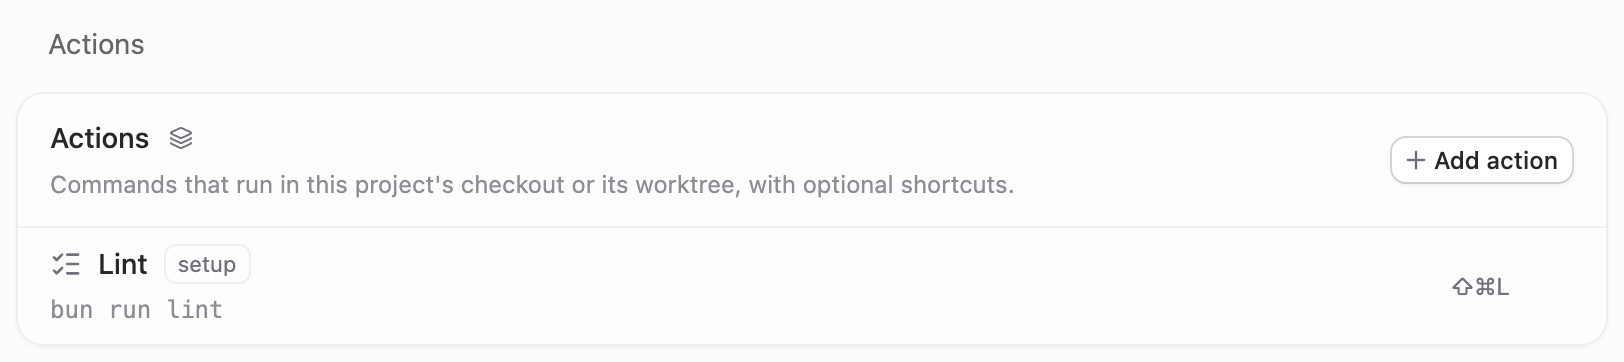
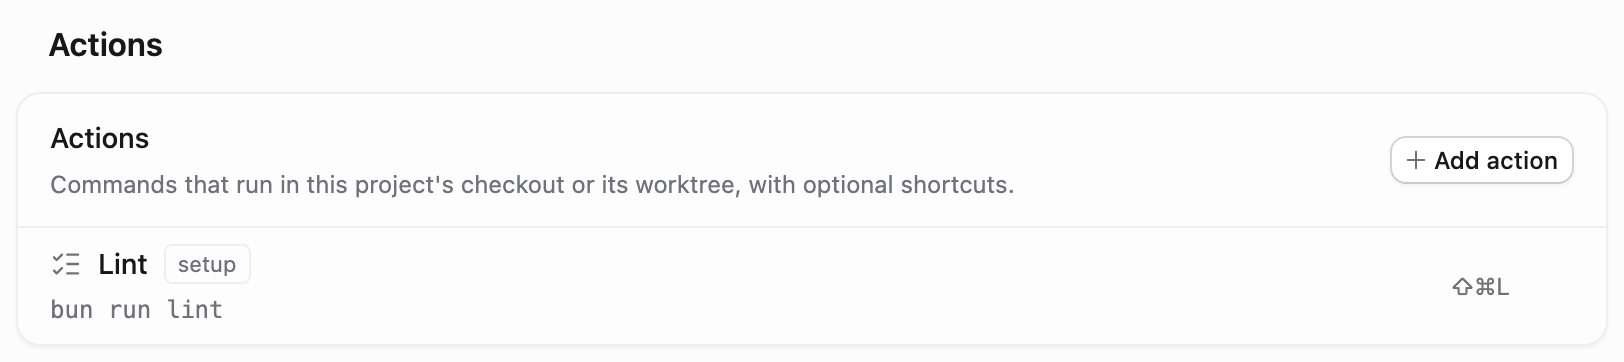
fix(settings): show neutral source control readiness (#22778)
Match Nightly 3824 SourceControlSettings.tsx:75-109: providers use a grey dot unless ready and authenticated, and Not authenticated uses the secondary badge. Keep the previous Redesign presentation. Add the light and dark readiness case and refresh the settings-page component markup from settingsLayout.tsx:232-236,486-489. The two Repositories cases retain their 4.5% ceiling and await the shared text and heading port.

diff --git a/Packages/CandyKit/Sources/Features/Settings/SourceControlSettingsView.swift b/Packages/CandyKit/Sources/Features/Settings/SourceControlSettingsView.swift
@@ -44,8 +44,15 @@ public struct SourceControlDiscoveryItem: Equatable, Sendable {
     var notReady: Bool { !isProvider && !implemented }
     var authStatus: String? { auth?["status"]?.stringValue }
 
-    /// `itemStatusDot`.
+    /// 3824 SourceControlSettings.tsx:98-109 (#22778).
     var dot: NSColor {
+        if notReady { return Themed.color(\.mutedForeground, 0.35) }
+        if isProvider { return status == "available" && authStatus == "authenticated" ? Themed.color(\.success) : Themed.color(\.mutedForeground, 0.35) }
+        return status == "available" ? Themed.color(\.success) : Themed.color(\.warning)
+    }
+
+    /// Redesign keeps the presentation saved before the new default design.
+    var legacyDot: NSColor {
         if notReady { return Themed.color(\.mutedForeground, 0.35) }
         if status != "available" { return Themed.color(\.warning) }
         if isProvider, authStatus != "authenticated" { return Themed.color(\.warning) }
@@ -597,7 +604,7 @@ final class SourceControlDiscoveryRow: DSView, SettingsGroupRow {
         hover = HoverGroup(self) { [weak self] _ in self?.restyleHover(transitioning: true) }
         addSubview(mark)
         dot.cornerRadius = 4
-        dot.backgroundColor = item.dot.cgColor
+        dot.backgroundColor = (ThemeRuntime.isDither(dark: effectiveAppearance.isDark) ? item.legacyDot : item.dot).cgColor
         if item.icon != nil {
             dot.borderWidth = 2
             dot.borderColor = Themed.color(\.background).cgColor
@@ -609,7 +616,7 @@ final class SourceControlDiscoveryRow: DSView, SettingsGroupRow {
         version.lineHeight = 16
         version.isHidden = item.version == nil
         if let b = item.badge {
-            let v = BadgeView(b, variant: .warning, size: .sm)
+            let v = BadgeView(b, variant: b == "Not authenticated" && !ThemeRuntime.isDither(dark: effectiveAppearance.isDark) ? .secondary : .warning, size: .sm)
             badge = v
             addSubview(v)
         }
@@ -702,7 +709,8 @@ final class SourceControlDiscoveryRow: DSView, SettingsGroupRow {
     override func updateLayer() {
         super.updateLayer()
         restyleHover(transitioning: false)
-        dot.backgroundColor = item.dot.cgColor(in: self)
+        if item.badge == "Not authenticated" { badge?.variant = ThemeRuntime.isDither(dark: effectiveAppearance.isDark) ? .warning : .secondary }
+        dot.backgroundColor = (ThemeRuntime.isDither(dark: effectiveAppearance.isDark) ? item.legacyDot : item.dot).cgColor(in: self)
         if item.icon != nil { dot.borderColor = Themed.color(\.background).cgColor(in: self) }
     }
 }

diff --git a/Packages/CandyKit/Tests/FeaturesTests/SettingsPages2FidelityTests.swift b/Packages/CandyKit/Tests/FeaturesTests/SettingsPages2FidelityTests.swift
@@ -69,6 +69,10 @@ struct SettingsPages2FidelityTests {
         case "repositories":
             let page = SourceControlSettingsView(context: environmentContext())
             return sized(try #require(page.anchor("source-control-defaults") as? SettingsSectionView), size)
+        case "unauthenticated":
+            let item = try json(#"{"kind":"github","label":"GitHub","executable":"gh","status":"available","auth":{"status":"unauthenticated"}}"#)
+            let row = SourceControlDiscoveryRow(item: SourceControlDiscoveryItem(item, provider: true), details: SettingsGroupNote(""))
+            return sized(row, size)
         case "vcs":
             let result = json(#"""
             {"versionControlSystems": [

diff --git a/scripts/gen-settings-pages2-spec.py b/scripts/gen-settings-pages2-spec.py
@@ -5,7 +5,7 @@ Version Control discovery rows) and Settings > Providers (the instance list).
 Class strings are copied from apps/web/src/components/settings/{ProjectSettingsPanel.tsx, ProjectActionsSettings.tsx,
 ProjectActionsList.tsx, ProjectDefaultsSettings.tsx, SourceControlSettings.tsx, ProviderSettingsPanel.tsx,
 ProviderInstanceCard.tsx, settingsLayout.tsx}, components/chat/ProviderInstanceIcon.tsx and components/Icons.tsx at the
-tag in T3_VERSION. Rows, sections, switches and selects come from gen-settings-spec.py and gen-connections-spec.py.
+3814 design tag. Rows, sections, switches and selects come from gen-settings-spec.py and gen-connections-spec.py.
 Usage: /usr/bin/python3 -I scripts/gen-settings-pages2-spec.py [t3code checkout]
 """
 import json, os, re, sys
@@ -19,7 +19,9 @@ exec(src[:src.index("behavior = section(")], ns)
 lucide, button, merge, conn, pop = ns["lucide"], ns["button"], ns["merge"], ns["conn"], ns["pop"]
 switch, row, select, SPAN, LAYERS, GROUP, ROW = ns["switch"], ns["row"], ns["select"], ns["SPAN"], ns["LAYERS"], ns["GROUP"], ns["ROW"]
 form_ns = conn["form_ns"]
-section = conn["section"]
+def section(title, children, icon="", action=""):
+    return conn["section"](title, children, icon, action).replace(
+        "text-sm font-normal text-foreground/70", "text-base font-semibold text-foreground")
 exec(open(os.path.join(ROOT, "scripts/gen-forms-spec.py")).read().split("cases = [{\"name\": f\"{v}.default\"")[0].split("def svg(")[0], form_ns)
 fsrc = open(os.path.join(ROOT, "scripts/gen-forms-spec.py")).read()
 exec(fsrc[fsrc.index("BADGE = "):fsrc.index("cases = [{\"name\": f\"{v}.default\"")], form_ns)
@@ -47,13 +49,16 @@ def badge(text, variant="warning"):
     return f'<span class="{b["BADGE_BASE_NO_RADIUS"]} {b["BADGE_SIZES"]["sm"]} {b["BADGE_VARIANTS"][variant]}" data-slot="badge">{text}</span>'
 
 
+REST_LAYERS = SPAN.format(LAYERS).replace('class="', 'class="opacity-0 ', 1)
+
+
 def server_row(title, desc, control, reset=""):
     """SettingsRow with the inheritance indicator and a reset span."""
     return (f'<div data-slot="settings-row" class="{ROW}"><div class="flex flex-col gap-3 @min-[32rem]/settings-row:grid '
             '@min-[32rem]/settings-row:grid-cols-[minmax(0,1fr)_minmax(10rem,auto)] @min-[32rem]/settings-row:items-center @min-[32rem]/settings-row:gap-8">'
             f'<div class="min-w-0 flex-1 space-y-1"><div class="flex min-h-5 items-center gap-1.5"><h3 class="text-sm font-medium text-foreground">{title}</h3>'
-            f'{SPAN.format(LAYERS)}{SPAN.format(reset)}</div>'
-            f'<p class="max-w-xl text-xs leading-normal text-muted-foreground/80">{desc}</p></div>'
+            f'{REST_LAYERS}{SPAN.format(reset)}</div>'
+            f'<p class="max-w-2xl text-balance text-xs leading-normal text-muted-foreground">{desc}</p></div>'
             f'<div class="flex w-full min-w-0 shrink-0 items-center gap-2 @min-[32rem]/settings-row:w-auto @min-[32rem]/settings-row:justify-end">{control}</div></div></div>')
 
 
@@ -77,7 +82,7 @@ action_title = (f'<span class="flex min-w-0 items-center gap-2">{lucide("list-ch
 action_control = ('<span class="text-xs text-muted-foreground">⇧⌘L</span><span class="flex shrink-0 opacity-0 group-focus-within:opacity-100 group-hover:opacity-100">'
                   + button("ghost-muted", "icon-xs", lucide("settings", "size-3.5")) + "</span>")
 action_row = row("", "", action_control, title_html=action_title,
-                 desc_html='<p class="max-w-xl text-xs leading-normal text-muted-foreground/80"><code class="block max-w-full truncate font-mono">bun run lint</code></p>')
+                 desc_html='<p class="max-w-2xl text-balance text-xs leading-normal text-muted-foreground"><code class="block max-w-full truncate font-mono">bun run lint</code></p>')
 action_row = action_row.replace(f'class="{ROW}"', f'class="{ROW.replace(" py-3", "")} group py-2"', 1)
 actions = section("Actions", server_row("Actions", "Commands that run in this project's checkout or its worktree, with optional shortcuts.",
                                         f'<div class="flex flex-wrap items-center gap-1.5">{ADD_ACTION}</div>') + action_row)
@@ -144,11 +149,21 @@ providers = ('<div class="border-b border-border/60 bg-muted/10"><div class="div
                             "Authenticated · Claude Max Subscription", selected=True)
              + ADD_ROW + "</div></div>")
 
+# sourceControlPresentation.tsx uses the provider's filled artwork, not lucide's Github glyph.
+github_source = open(os.path.join(T3, "packages/source-control-github/src/shared/icon.ts")).read()
+github_path = re.search(r'd: "([^"]+)"', github_source).group(1)
+github_icon = f'<svg viewBox="0 0 16 16" fill="currentColor" class="size-4.5 text-foreground/80" aria-hidden="true"><path d="{github_path}" fill-rule="evenodd" clip-rule="evenodd"/></svg>'
+not_authenticated = discovery_row("GitHub", None,
+    "GitHub is not authenticated on this server. Sign in or configure credentials using the gh tool on the server host to enable change request features.",
+    github_icon, "bg-muted-foreground/35", True, False)
+not_authenticated = not_authenticated.replace('GitHub</span>', 'GitHub</span>' + badge("Not authenticated", "secondary"))
+
 W796 = "display:block;width:796px"
 cases = [
     {"name": "project.overview", "html": overview, "wrapperStyle": W796, "native": {"kind": "overview"}},
     {"name": "project.actions", "html": actions, "wrapperStyle": W796, "native": {"kind": "actions"}},
     {"name": "source-control.repositories", "html": repositories, "wrapperStyle": W796, "native": {"kind": "repositories"}},
+    {"name": "source-control.unauthenticated", "html": not_authenticated, "wrapperStyle": W796, "native": {"kind": "unauthenticated"}},
     {"name": "source-control.vcs", "html": vcs, "wrapperStyle": W796, "native": {"kind": "vcs"}},
     {"name": "providers.list", "html": providers, "wrapperStyle": "display:block;width:272px", "native": {"kind": "providers"}},
 ]
